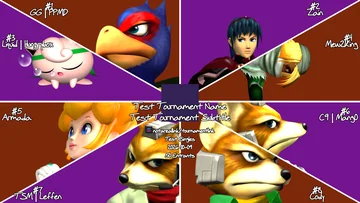
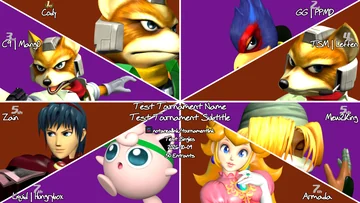
using placement numbers in radial mode, thanking moxort

diff --git a/frontend/src/Footer.tsx b/frontend/src/Footer.tsx
@@ -17,7 +17,7 @@ function Footer({ renderCount }: FooterProps) {
     <>
       <footer className="site-footer">
         <div>
-          V5.5 9/28/2026 
+          V6.0 10/10/2026 
           {" "}●{" "}
           {count} created
           {" "}●{" "}
@@ -51,6 +51,7 @@ function Footer({ renderCount }: FooterProps) {
               <li>Nicolet I would like to thank in particular for sending me the repo for the startgg USB reporting, and DevDogg for connecting me with them.</li>
               <li>AeonSSB, Cjag01, radzo73, and caha1an, who created the <a href="https://github.com/AeonSSB/Melee-CSProject" target="_blank" rel="noreferrer">Melee-CSProject</a> that I got the original poses from.</li>
               <li>Elenrique3 for creating the original Top8er 2023 design. It's truly a nearly perfect design other than the lack of doubles support. And Malarki_ again for coming up with the eyes template.</li>
+              <li>Moxort for coming up with the Radial layout.</li>
               <li><a href="https://smashboards.com/threads/character-stock-icon-dump.390494/" target="_blank" rel="noreferrer">CeLL on this old Smashboards thread</a> for posting a dump of all the character stock icons.</li>
               <li><a href="https://www.spriters-resource.com/gamecube/ssbm/asset/46039/" target="_blank" rel="noreferrer">Mr. C</a> for the Sheik stock icons.</li>
               <li>Also shoutout to <a href="https://smashboards.com/" target="_blank" rel="noreferrer">SmashBoards</a> in general—what an amazing site still.</li>

diff --git a/radial_content_renderer.py b/radial_content_renderer.py
@@ -3,17 +3,17 @@
 from dataclasses import dataclass
 import math
 
-from PIL import Image, ImageDraw, ImageFilter
+from PIL import Image, ImageFilter
 
 from creation import CreationRequest
 from creation_modes import CreationMode
-from DrawPodium import PodiumFont, _draw_text, _temporary_font_settings
+from DrawPodium import PodiumFont, _temporary_font_settings
+from formatting_assets import draw_placement_tags
 from eyes_portrait_renderer import render_eye_portrait
 from geometric_content_renderer import (
     LogoInput,
     _draw_horizontal_header_item,
     _draw_result_text,
-    _explicit_entrant_color,
     _open_logo,
 )
 from legacy_podium_content_renderer import LegacyPodiumContentRenderer
@@ -78,17 +78,9 @@ class RadialContentRenderer:
             self._draw_header(result, request, preferences)
             # Both result labels and central text remain above an oversized logo.
             text_layer = Image.new("RGBA", result.size, "#00000000")
-            _draw_result_text(text_layer, request, preferences, self.font, (p for p in preferences.text_slots if p.field != "entrant.placement"))
-            for placement in preferences.text_slots:
-                if placement.field != "entrant.placement" or placement.entrant_slot is None:
-                    continue
-                entrant = request.entrants[placement.entrant_slot - 1]
-                color = _explicit_entrant_color(request, placement.entrant_slot) or placement.color or "#FFFFFFFF"
-                settings = request.text_settings
-                index = 0 if settings.entrant_text_color_mode == "pick_1" else (placement.entrant_slot - 1) % 2 if settings.entrant_text_color_mode == "pick_2" else placement.entrant_slot - 1
-                metallic = settings.entrant_text_metallic[index] if settings.entrant_text_color_mode != "match_podium" else False
-                _draw_text(ImageDraw.Draw(text_layer), (placement.anchor.x, placement.anchor.y), f"#{entrant.placement}", anchor=placement.pillow_anchor, max_width=placement.max_width, preferred_size=placement.preferred_size or 36, font=self.font, fill=color, metallic=metallic)
+            _draw_result_text(text_layer, request, preferences, self.font)
             _composite_outlined_text(result, text_layer)
+            draw_placement_tags(result, preferences)
         return result
 
     def _draw_header(self, canvas: Image.Image, request: CreationRequest, preferences: ModePreferences) -> None:

diff --git a/generate_radial_preferences.py b/generate_radial_preferences.py
@@ -5,7 +5,7 @@ from pathlib import Path
 
 from background_builder import PixelRect, PixelSize
 from creation_modes import CreationMode, ModeOptions, ModeSelection
-from mode_preferences import CharacterPlacement, FormattingAssetPlacement, ModePreferences, PixelPoint, TextPlacement
+from mode_preferences import CharacterPlacement, FormattingAssetPlacement, ModePreferences, PixelPoint, PlacementTagPlacement, TextPlacement
 from models import TournamentFormat
 
 
@@ -28,6 +28,7 @@ def radial_preferences() -> ModePreferences:
     assets = []
     characters = []
     text = []
+    placement_tags = []
     for slot, vertices in enumerate(triangles, 1):
         left = min(x for x, y in vertices)
         top = min(y for x, y in vertices)
@@ -42,8 +43,12 @@ def radial_preferences() -> ModePreferences:
         # The side labels sit near the canvas edge; fit long identities inward.
         anchor = "la" if slot in (3, 5) else "ra" if slot in (4, 6) else "ma"
         label_x = 8 if slot in (3, 5) else 1272 if slot in (4, 6) else x
+        rank = (1, 2, 3, 4, 5, 5, 7, 7)[slot - 1]
+        suffix = {1: "st", 2: "nd", 3: "rd"}.get(rank, "th")
+        placement_tags.append(PlacementTagPlacement(
+            f"number_{slot}", f"{rank:02}{suffix}.png", point(x, y + 14), PixelSize(70, 44), z_index=20,
+        ))
         text.extend((
-            TextPlacement(f"number_{slot}", "entrant.placement", point(x, y), 160, entrant_slot=slot, preferred_size=36, z_index=30),
             TextPlacement(f"tag_{slot}", "entrant.tag", point(label_x, 706 if slot in (7, 8) else y + 20), 360, entrant_slot=slot, pillow_anchor="ms" if slot in (7, 8) else anchor, preferred_size=40, z_index=30),
             TextPlacement(f"seed_{slot}", "entrant.seed", point(label_x, y - 23 if slot in (7, 8) else y + 49), 250, entrant_slot=slot, pillow_anchor=anchor, preferred_size=22, z_index=30),
         ))
@@ -56,7 +61,7 @@ def radial_preferences() -> ModePreferences:
     return ModePreferences(
         ModeSelection(CreationMode.RADIAL, ModeOptions(TournamentFormat.SINGLES, 8)),
         PixelSize(1920, 1080), ready=True,
-        formatting_assets=tuple(assets), character_slots=tuple(characters), text_slots=tuple(text),
+        formatting_assets=tuple(assets), placement_tags=tuple(placement_tags), character_slots=tuple(characters), text_slots=tuple(text),
     )
 
 

diff --git a/test/radial_test.py b/test/radial_test.py
@@ -38,7 +38,16 @@ class RadialTests(unittest.TestCase):
         for section in radial_sections(self.preferences).values():
             self.assertEqual(len(section.polygon), 3)
             self.assertIn(center, [(section.destination.left + p.x, section.destination.top + p.y) for p in section.polygon])
-        self.assertEqual([p.anchor for p in self.preferences.text_slots if p.field == "entrant.placement"], [PixelPoint(x, y) for x, y in ((262, 6), (1680, 6), (57, 174), (1857, 174), (90, 564), (1842, 564), (202, 984), (1692, 984))])
+        self.assertFalse(any(p.field == "entrant.placement" for p in self.preferences.text_slots))
+        self.assertEqual([p.anchor for p in self.preferences.placement_tags], [PixelPoint(x, y) for x, y in ((262, 27), (1680, 27), (57, 195), (1857, 195), (90, 585), (1842, 585), (202, 1005), (1692, 1005))])
+        self.assertEqual([p.asset_id for p in self.preferences.placement_tags], ["01st.png", "02nd.png", "03rd.png", "04th.png", "05th.png", "05th.png", "07th.png", "07th.png"])
+
+    def test_renders_canonical_tied_placement_art_above_an_overlapping_logo(self):
+        with patch("formatting_assets.LocalPlacementTagAssets.open", autospec=True, side_effect=lambda _provider, _asset_id: Image.new("RGBA", (14, 14), "#00CCCCFF")) as assets:
+            image = RadialContentRenderer(tournament_logo=Image.new("RGBA", (200, 200), "#FF0000FF"), logo_scale=10).draw(Image.new("RGBA", (1920, 1080)), self.request, self.preferences)
+        self.assertEqual([call.args[1] for call in assets.call_args_list], ["01st.png", "02nd.png", "03rd.png", "04th.png", "05th.png", "05th.png", "07th.png", "07th.png"])
+        for placement in self.preferences.placement_tags:
+            self.assertEqual(image.getpixel((placement.anchor.x, placement.anchor.y)), (0, 204, 204, 255))
 
     def test_polygon_clipping_preserves_existing_alpha_and_rejects_bad_bounds(self):
         section = FormattingAssetPlacement("slice_1", "radial_slice", PixelRect(0, 0, 20, 20), polygon=(PixelPoint(0, 0), PixelPoint(20, 0), PixelPoint(0, 20)))

diff --git a/formatting_assets.py b/formatting_assets.py
@@ -151,27 +151,26 @@ class FormattingAssetRenderer:
                 )
             _composite_clipped(result, layer, destination.as_tuple())
 
-        for placement in sorted(
-            preferences.placement_tags,
-            key=lambda item: (item.z_index, item.slot_id),
-        ):
-            source = self.placement_tag_assets.open(placement.asset_id)
-            try:
-                layer = source.copy()
-            finally:
-                source.close()
-            layer.thumbnail(
-                placement.max_size.as_tuple(),
-                Image.Resampling.LANCZOS,
-            )
-            left = placement.anchor.x - layer.width // 2
-            top = placement.anchor.y - layer.height // 2
-            _composite_clipped(
-                result,
-                layer,
-                (left, top, left + layer.width, top + layer.height),
-            )
+        draw_placement_tags(result, preferences, self.placement_tag_assets)
         return result
+
+
+def draw_placement_tags(
+    canvas: Image.Image,
+    preferences: ModePreferences,
+    assets: PlacementTagAssetProvider = LocalPlacementTagAssets(),
+) -> None:
+    """Composite canonical ordinal artwork at the layout's calibrated anchors."""
+    for placement in sorted(preferences.placement_tags, key=lambda item: (item.z_index, item.slot_id)):
+        source = assets.open(placement.asset_id)
+        try:
+            layer = source.copy()
+        finally:
+            source.close()
+        layer.thumbnail(placement.max_size.as_tuple(), Image.Resampling.LANCZOS)
+        left = placement.anchor.x - layer.width // 2
+        top = placement.anchor.y - layer.height // 2
+        _composite_clipped(canvas, layer, (left, top, left + layer.width, top + layer.height))
 
 
 def _draw_geometric_asset(

diff --git a/radial_preview_layers.py b/radial_preview_layers.py
@@ -3,12 +3,12 @@
 from itertools import permutations
 from pathlib import Path
 
-from PIL import Image, ImageDraw
+from PIL import Image
 
 from background_builder import BackgroundRequest
 from creation import CreationRequest, TextSettings
-from DrawPodium import PodiumFont, _draw_text
-from formatting_assets import FormattingAssetRenderer
+from DrawPodium import PodiumFont
+from formatting_assets import FormattingAssetRenderer, draw_placement_tags
 from geometric_formatting_colors import GeometricFormattingColor, GeometricFormattingColors
 from mode_preferences import ModePreferenceRepository
 from creation_modes import CreationMode, ModeOptions, ModeSelection
@@ -37,10 +37,7 @@ def generate_radial_preview_layers(output_root: Path) -> list[Path]:
         save(layer, f"radial/singles_top_8/{color_id}.png")
 
     labels = Image.new("RGBA", preferences.canvas_size.as_tuple(), "#00000000")
-    for text in preferences.text_slots:
-        if text.field == "entrant.placement":
-            rank = (1, 2, 3, 4, 5, 5, 7, 7)[text.entrant_slot - 1]
-            _draw_text(ImageDraw.Draw(labels), (text.anchor.x, text.anchor.y), f"#{rank}", anchor=text.pillow_anchor, max_width=text.max_width, preferred_size=text.preferred_size, font=PodiumFont.UBUNTU, fill="#FFFFFFFF")
+    draw_placement_tags(labels, preferences)
     save(labels, "radial_labels.png")
 
     for position, box in radial_header_boxes(preferences).items():

diff --git a/AGENTS.md b/AGENTS.md
@@ -11,7 +11,7 @@
 ## Creation modes and pipeline
 
 - The initial creation modes are Podium, Eyes, and Squares. Keep all three explicit and allow more modes to be added later.
-- Radial is a fourth mode, initially Singles Top 8 on a 1920x1080 canvas, based on `docs/archive/template_inspiration/radial-by-currentlyunknown.png`. Its eight triangular portrait masks meet at the canvas center and preserve the reference's portrait, number, and player-tag positions. Reuse the Eyes doubles focal/zoom profiles while keeping Radial section geometry and focal destinations in its own serialized preferences. Its centered overlapping header positions are Middle Top, Middle, and Middle Bottom (using the shared bijective assignment keys); always draw the logo before all header and entrant text, including in previews and downloads.
+- Radial is a fourth mode, initially Singles Top 8 on a 1920x1080 canvas, based on `docs/archive/template_inspiration/radial-by-moxort.png`. Use canonical placement-number artwork with tournament ranks 1, 2, 3, 4, 5, 5, 7, 7, including in previews and downloads. Its eight triangular portrait masks meet at the canvas center and preserve the reference's portrait, number, and player-tag positions. Reuse the Eyes doubles focal/zoom profiles while keeping Radial section geometry and focal destinations in its own serialized preferences. Its centered overlapping header positions are Middle Top, Middle, and Middle Bottom (using the shared bijective assignment keys); always draw the logo before all header and entrant text, including in previews and downloads.
 - Select the mode before other creation settings. Keep the mode and its settings, including singles/doubles, included entrant count, and any layout variant, together in one mode-selection value.
 - Podium mode has a required second-level choice between `legacy` podiums and `customizable` podiums. Do not treat this as a cosmetic skin: each style owns separate formatting-asset positions and character/text placements because its podium geometry and heights differ.
 - `creation.py` is the overall composition coordinator. Do not use a generic `main.py` for this responsibility.

diff --git a/README.md b/README.md
@@ -57,6 +57,7 @@ npm run build
 - [Malarki_](https://x.com/Malarki_), who I commissioned to expand the pool of character poses and did an amazing job.
 - [Top8er](https://www.top8er.com/), an amazing site that my local scene was using all the time, only inspired me to create this podium template because there wasn't an option for doubles. Huge thanks for being [open source](https://github.com/ShonTitor/Top8er) (shouts out to ShonTitor, agiera, and jmlee337); it was a huge help for figuring out the start.gg and Challonge bracket importing.
 - Elenrique3 for creating the original Top8er 2023 design. It's truly a nearly perfect design other than the lack of doubles support. And Malarki_ again for coming up with the eyes template.
+- Moxort for coming up with the Radial layout.
 - Nicolet I would like to thank in particular for sending me the repo for the startgg USB reporting, and DevDogg for connecting me with them
 - AeonSSB, Cjag01, radzo73, and caha1an, who created the [Melee-CSProject](https://github.com/AeonSSB/Melee-CSProject) that I got the original poses from.
 - [CeLL on this old Smashboards thread](https://smashboards.com/threads/character-stock-icon-dump.390494/) for posting a dump of all the character stock icons.
